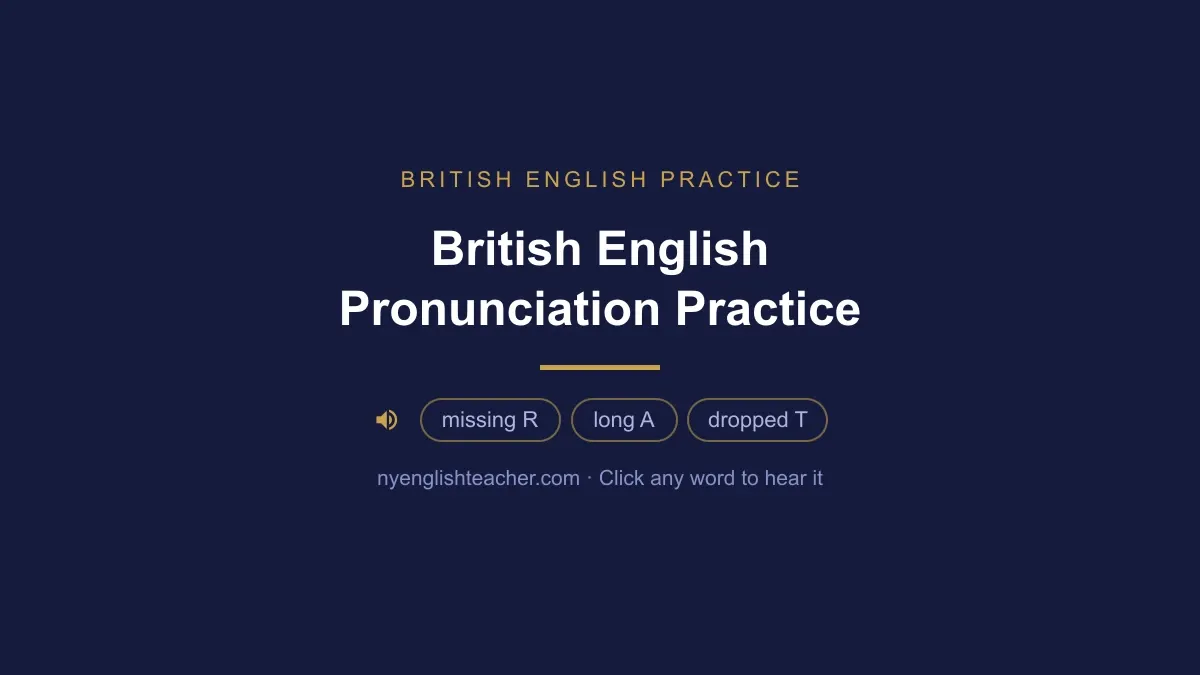
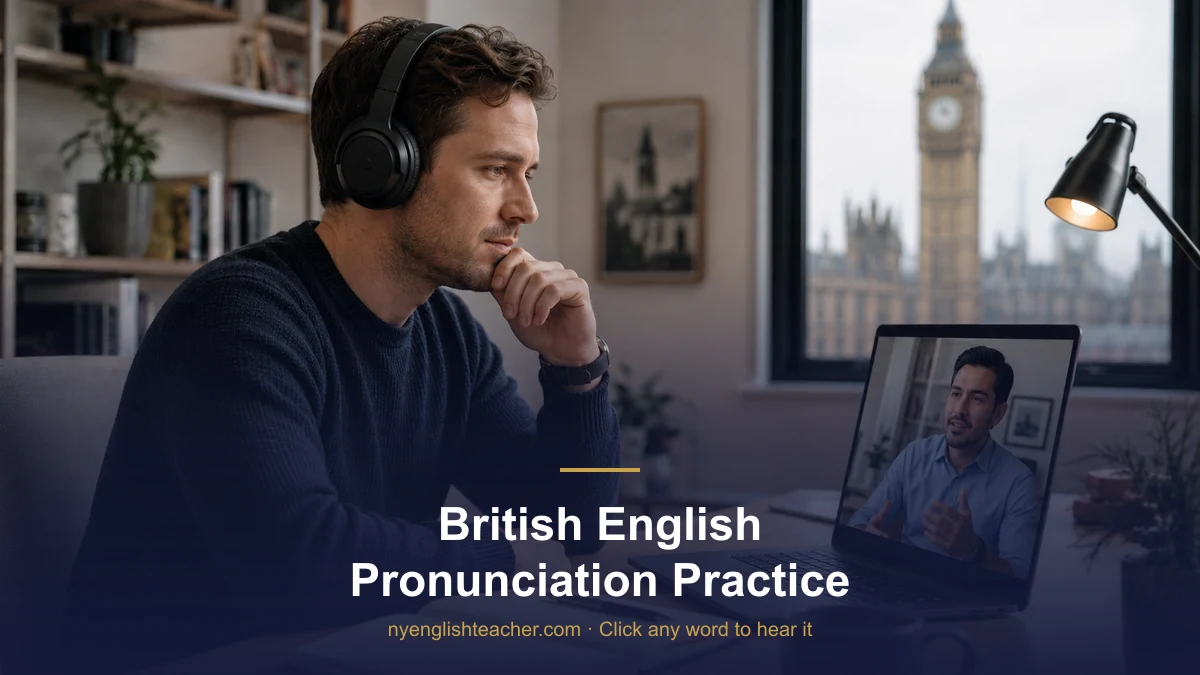
feat(blog): photo hero for the British English post, EN + ES (#266)
Replaces the flat navy card with a photograph Robert supplied: a listener
wearing headphones on a video call, Westminster through the window, a
Spanish-speaking colleague on the laptop screen. It suits this post better
than a generic card because the article's own thesis is that understanding
British English is a LISTENING skill, not a speaking one, and the image
leads with the listening.

Source is 16:9, so it maps to 1200x675 with no crop at all.

Moved the two British cards OUT of gen-blog-cards.mjs rather than adding
them to gen-blog-photo-cards.mjs and leaving the originals in place. Two
generators writing the same output path is a silent footgun: whichever ran
last would win, and an unrelated re-run of the flat generator would have
quietly replaced a photo hero with a flat card. A comment now says so at
the top of the flat generator's CARDS array.

Alt text rewritten in both languages. It described the old flat card -
"card listing the disappearing R, the long A, and the T that drops" - which
after this change would have described an image that no longer exists, to
exactly the users who depend on alt text most.

Note on the mobile crop: the subject sits left of centre and survives the
~720px mobile band comfortably. Big Ben sits near the right edge and is
mostly clipped on phones. That is the right trade - the listener is the
subject - but it is deliberate rather than accidental.

Claude-Session: https://claude.ai/code/session_01WHv9HBkh36rXmarjVUT7Kf

diff --git a/src/content/blog/es/practica-pronunciacion-ingles-britanico.md b/src/content/blog/es/practica-pronunciacion-ingles-britanico.md
@@ -8,7 +8,7 @@ categories:
 readingTime: "8 min de lectura"
 audience: "Profesionales que trabajan con colegas o clientes del Reino Unido, o con una matriz europea"
 featuredImage: "./images/practica-pronunciacion-ingles-britanico.webp"
-imageAlt: "Tarjeta de práctica de inglés británico con la R que desaparece, la A larga y la T que se cae"
+imageAlt: "Profesional con audífonos en una videollamada con un colega, con el Big Ben y Westminster al fondo por la ventana"
 ttsVoiceOptions:
   - label: "Masculina"
     voice: "en-GB-Ollie:DragonHDLatestNeural"

diff --git a/src/content/blog/en/british-english-pronunciation-practice.md b/src/content/blog/en/british-english-pronunciation-practice.md
@@ -8,7 +8,7 @@ categories:
 readingTime: "8 min read"
 audience: "Professionals who work with UK colleagues, UK clients, or a European head office"
 featuredImage: "./images/british-english-pronunciation-practice.webp"
-imageAlt: "British English practice card listing the disappearing R, the long A, and the T that drops"
+imageAlt: "Professional wearing headphones on a video call with a colleague, Big Ben and Westminster visible through the window behind him"
 ttsVoiceOptions:
   - label: "Male"
     voice: "en-GB-Ollie:DragonHDLatestNeural"
